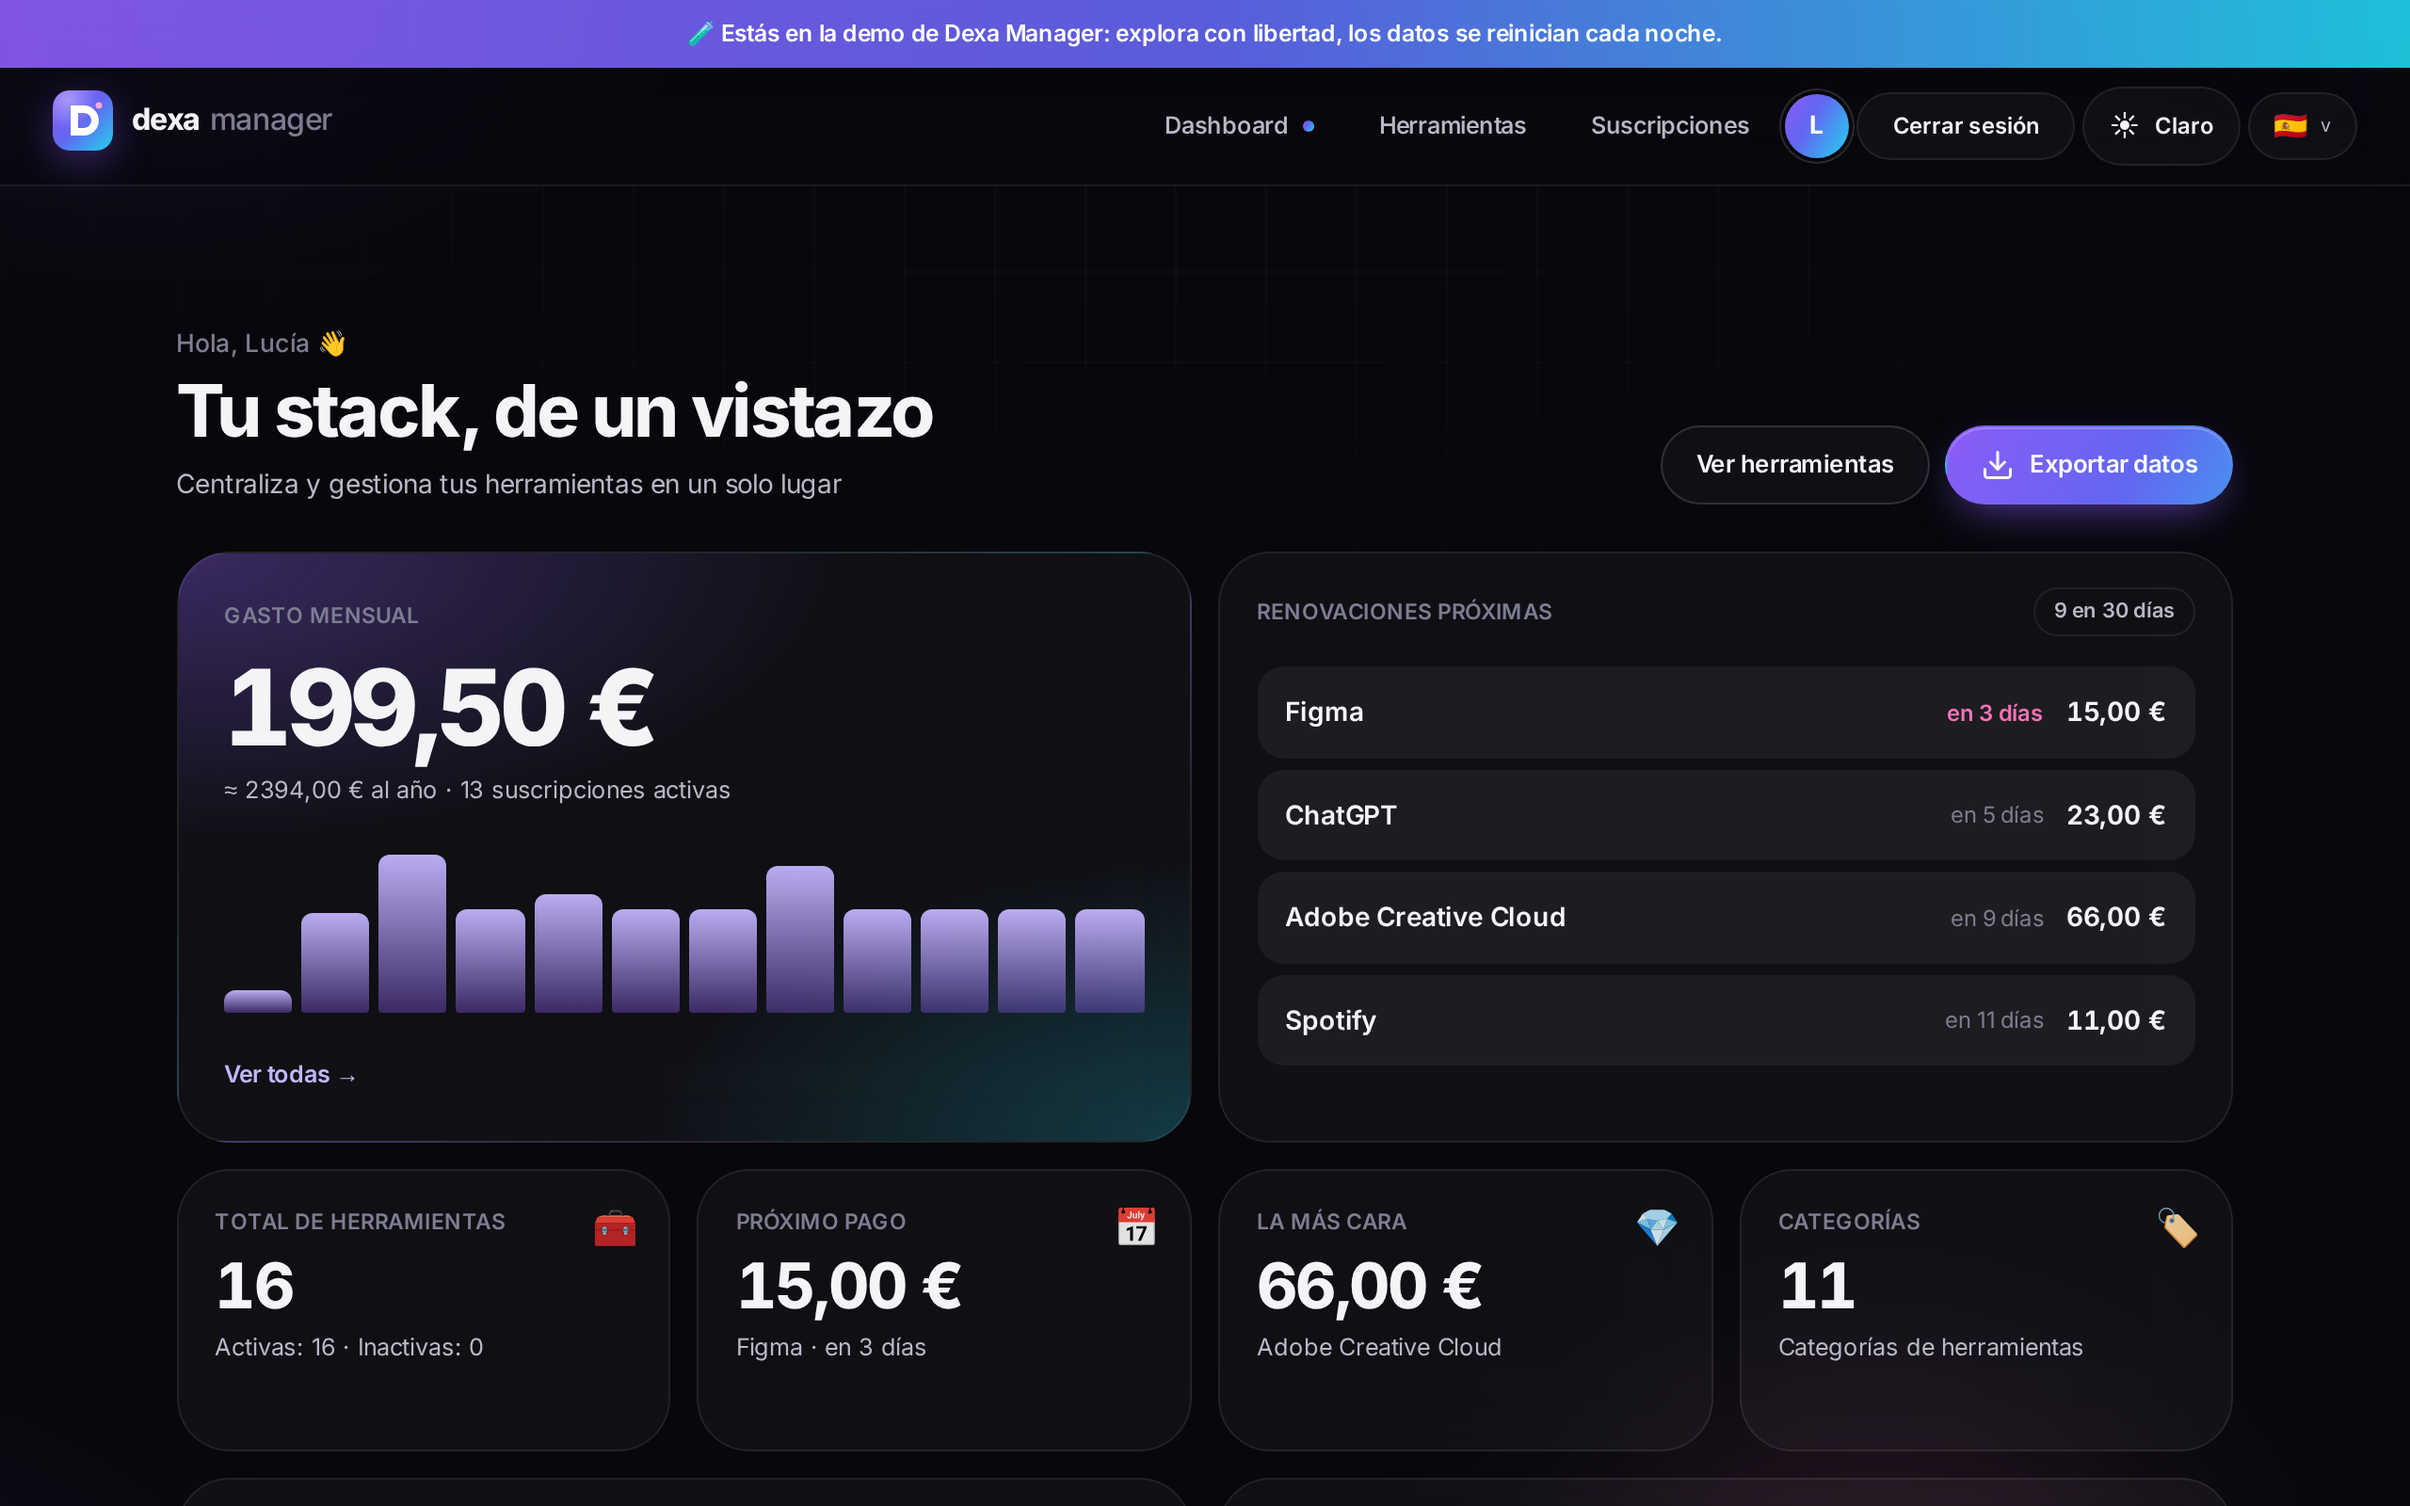
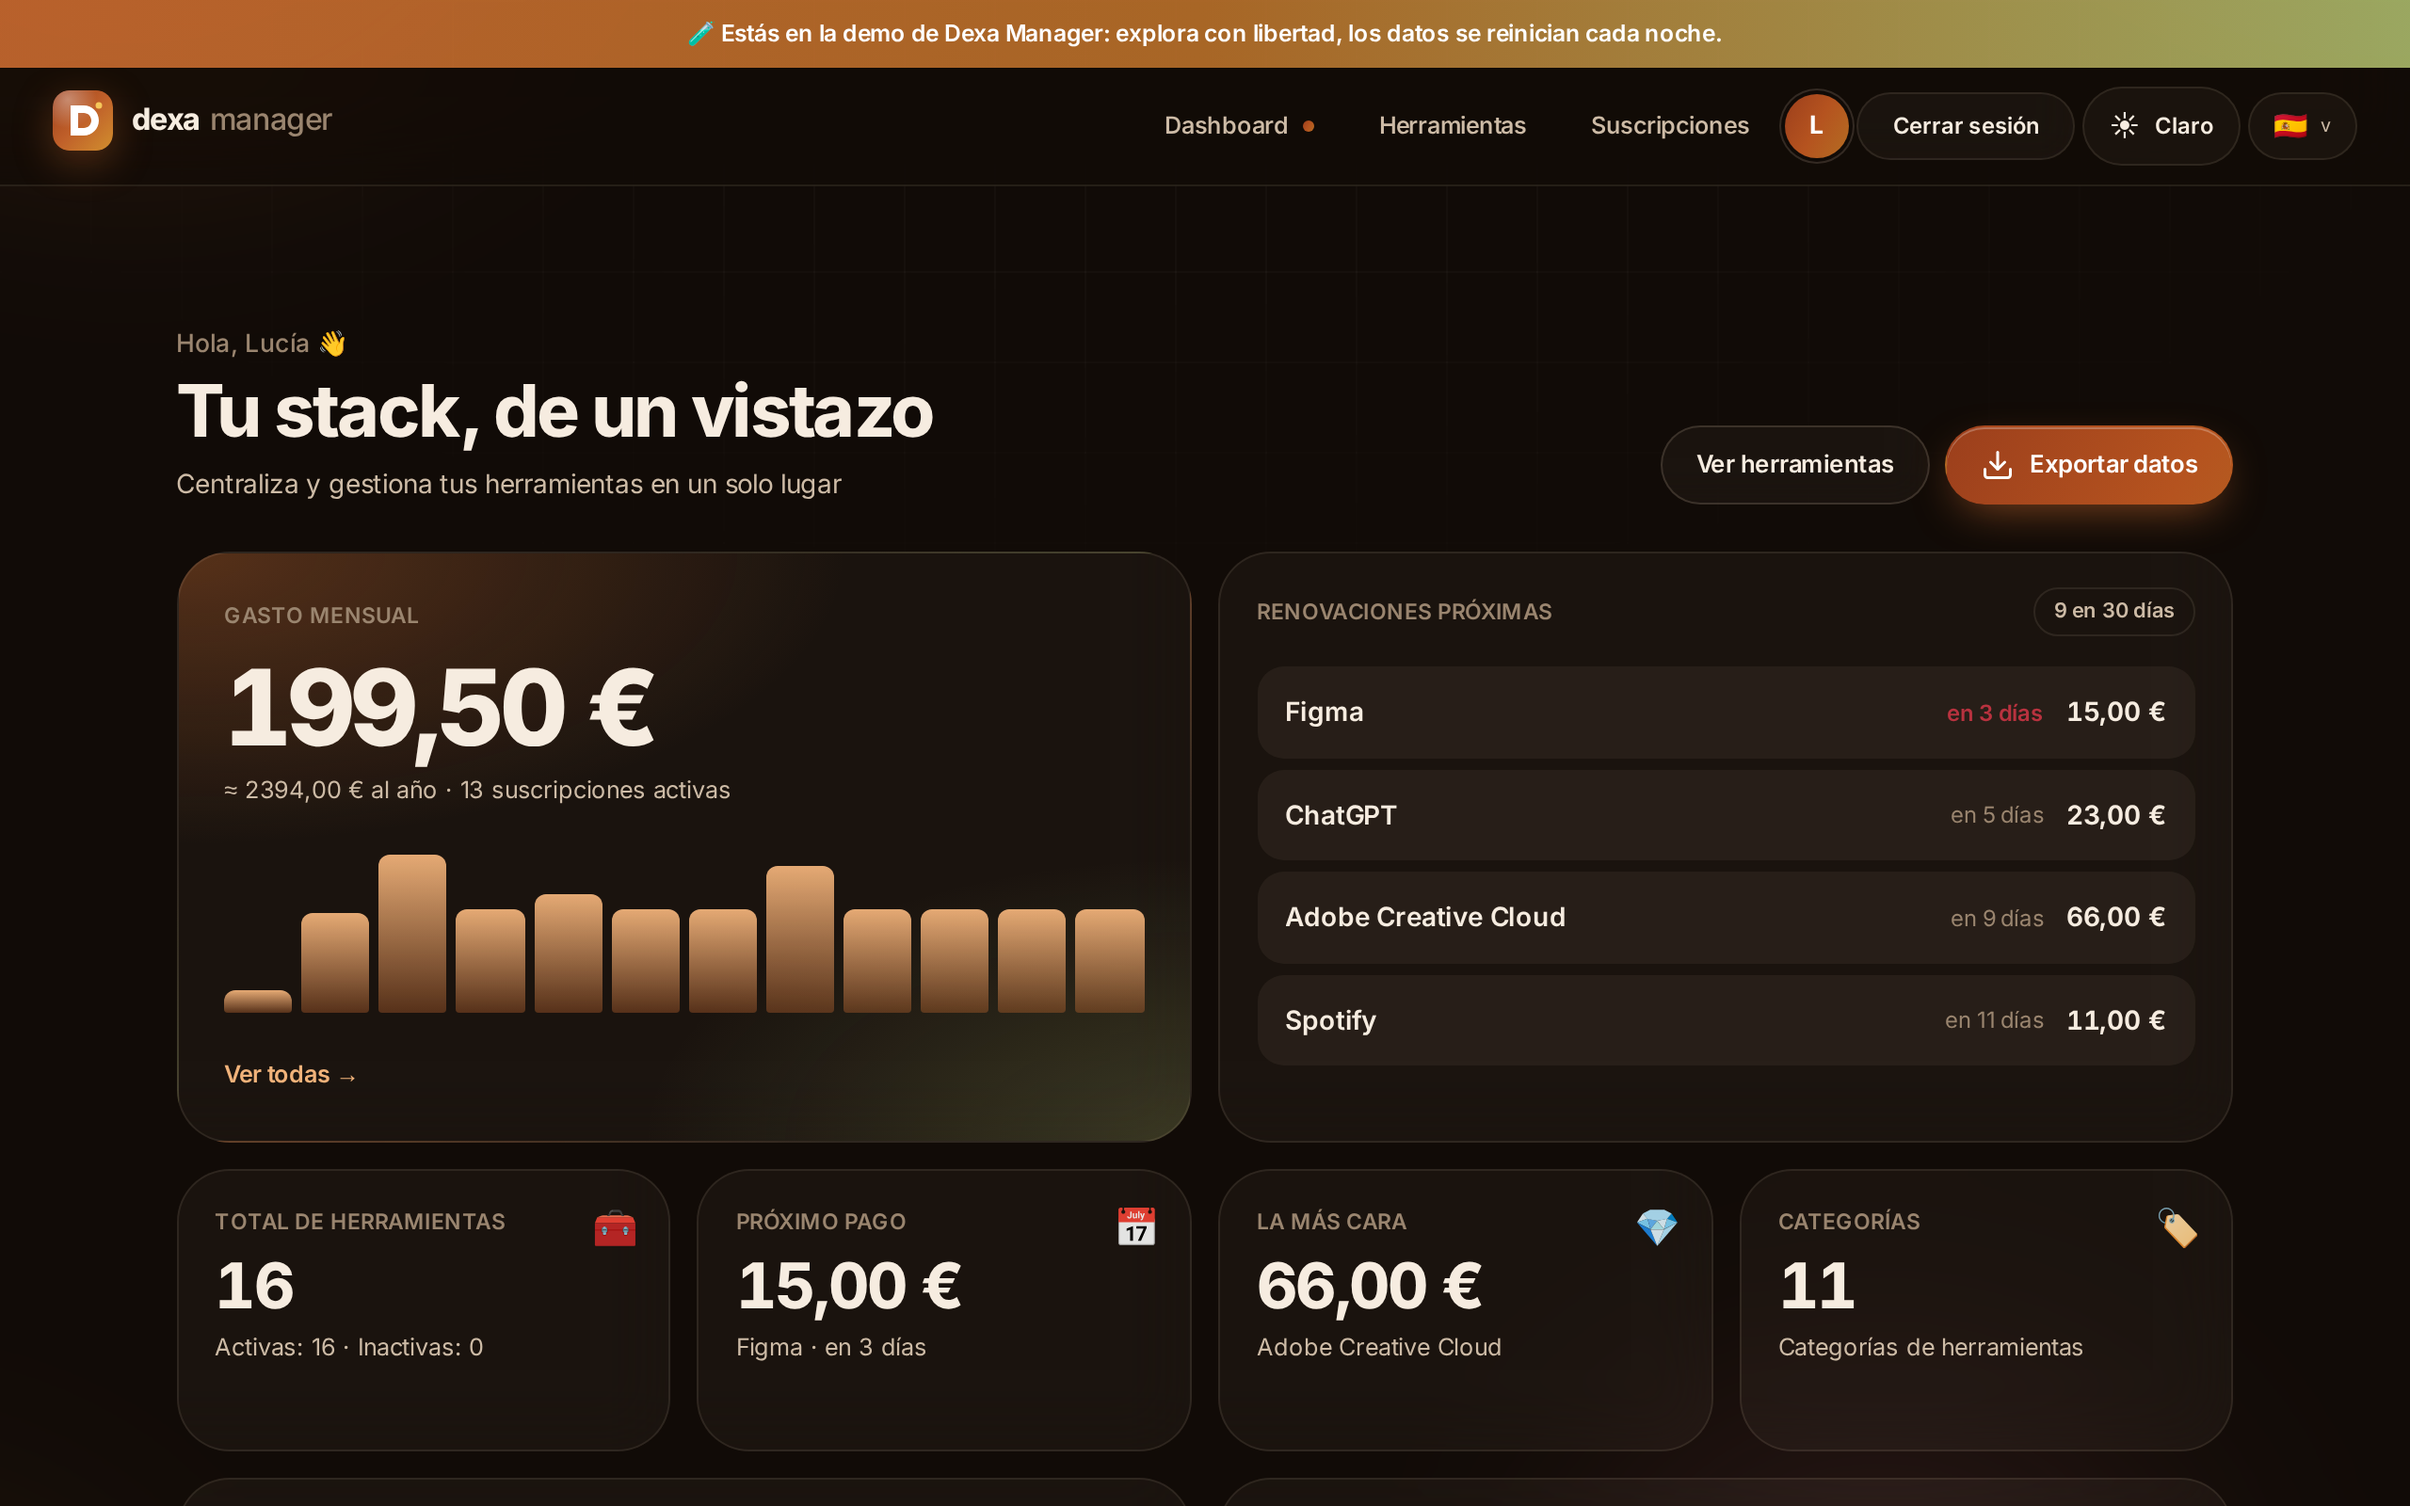
Dexa Manager: captura y texto con los nuevos colores de otoño

diff --git a/src/content/proyectos/dexa-manager.md b/src/content/proyectos/dexa-manager.md
@@ -5,13 +5,13 @@ tipo: Proyecto del bootcamp
 fecha: Mayo 2026 · ampliado en octubre 2026
 estado: Publicado · con web de demo
 orden: 3
-color: "#1e1440"
+color: "#3a2212"
 tecnologias: [React, Node.js, Express, PostgreSQL, Prisma, Vercel, Vite, React Router, i18next, Zod, JWT, Jest, Supertest, PWA, Neon, GitHub Actions]
 demo: https://dexa-manager-demo.vercel.app
 demoNota: Entra con un clic como admin o como usuaria · los datos se reinician cada noche
 codigo: https://github.com/Ithaisa1/dexa-manager
 imagen: ../../assets/proyectos/dexa-manager.png
-imagenAlt: Dashboard de Dexa Manager en modo oscuro con el gasto mensual (199,50 €) y un gráfico de barras de los próximos 12 meses, la lista de renovaciones próximas (Figma, ChatGPT, Adobe Creative Cloud y Spotify) y cuatro tarjetas con el total de herramientas, el próximo pago, la más cara y las categorías.
+imagenAlt: Dashboard de Dexa Manager en modo oscuro, con tonos cobre y ocre, mostrando el gasto mensual (199,50 €) y un gráfico de barras de los próximos 12 meses, la lista de renovaciones próximas (Figma, ChatGPT, Adobe Creative Cloud y Spotify) y cuatro tarjetas con el total de herramientas, el próximo pago, la más cara y las categorías.
 ---
 
 ## Pruébalo
@@ -42,7 +42,7 @@ Entre IDEs, apps de diseño, IA, música y almacenamiento en la nube, es fácil 
 - Lo empecé como proyecto individual del bootcamp Full Stack + IA de Ironhack (unas 65 horas, organizado en Trello y medido con Toggl Track) y después lo amplié hasta convertirlo en una app completa y publicada.
 - Diseñé el modelo de datos, la API REST y las pantallas, y decidí qué entraba en cada versión.
 - Llevé el proyecto de Render a Vercel y Neon, y monté la web de demo pública, separada de la de producción y con su propia base de datos.
-- Hice el rediseño «Aurora»: identidad visual, logo, iconos y modo oscuro por defecto.
+- Diseñé la identidad visual «Cosecha», una paleta de otoño en la que cada color significa algo: cobre para el dinero, ocre para una renovación cercana, granate para cobros y alertas, y musgo para lo que está en orden. Cada categoría tiene además su propio tono (diseño en terracota, IA en ciruela, finanzas en oro viejo…). También hice el logo y los iconos.
 - Probé cada entrega en la app real, en ordenador y en móvil.
 - El código de las últimas versiones se hizo con asistencia de IA (Claude Code). Yo dirigí el trabajo, revisé cada cambio y validé el resultado.
 

diff --git a/src/content/projects-en/dexa-manager.md b/src/content/projects-en/dexa-manager.md
@@ -5,7 +5,7 @@ tipo: Bootcamp project
 fecha: May 2026 · extended in October 2026
 estado: Published · with a demo site
 demoNota: One-click sign-in as admin or user · data resets every night
-imagenAlt: Dexa Manager dashboard in dark mode showing monthly spend (€199.50) with a bar chart for the next 12 months, the list of upcoming renewals (Figma, ChatGPT, Adobe Creative Cloud and Spotify) and four cards with total tools, next payment, the most expensive tool and categories.
+imagenAlt: Dexa Manager dashboard in dark mode with copper and ochre tones, showing monthly spend (€199.50) with a bar chart for the next 12 months, the list of upcoming renewals (Figma, ChatGPT, Adobe Creative Cloud and Spotify) and four cards with total tools, next payment, the most expensive tool and categories.
 ---
 
 ## Try it
@@ -36,7 +36,7 @@ Between IDEs, design apps, AI tools, music and cloud storage, it's easy to lose 
 - I started it as an individual project for the Ironhack Full Stack + AI bootcamp (about 65 hours, planned in Trello and tracked with Toggl Track) and later extended it into a complete, published app.
 - I designed the data model, the REST API and the screens, and decided what went into each version.
 - I moved the project from Render to Vercel and Neon, and set up the public demo site, separate from production and with its own database.
-- I did the "Aurora" redesign: visual identity, logo, icons and dark mode by default.
+- I designed the "Cosecha" (harvest) visual identity, an autumn palette where each colour means something: copper for money, ochre for an upcoming renewal, burgundy for charges and alerts, and moss for what is in order. Each category also has its own shade (design in terracotta, AI in plum, finance in old gold…). I also made the logo and icons.
 - I tested every release in the real app, on desktop and mobile.
 - The code for the latest versions was written with AI assistance (Claude Code). I led the work, reviewed every change and validated the result.
 
